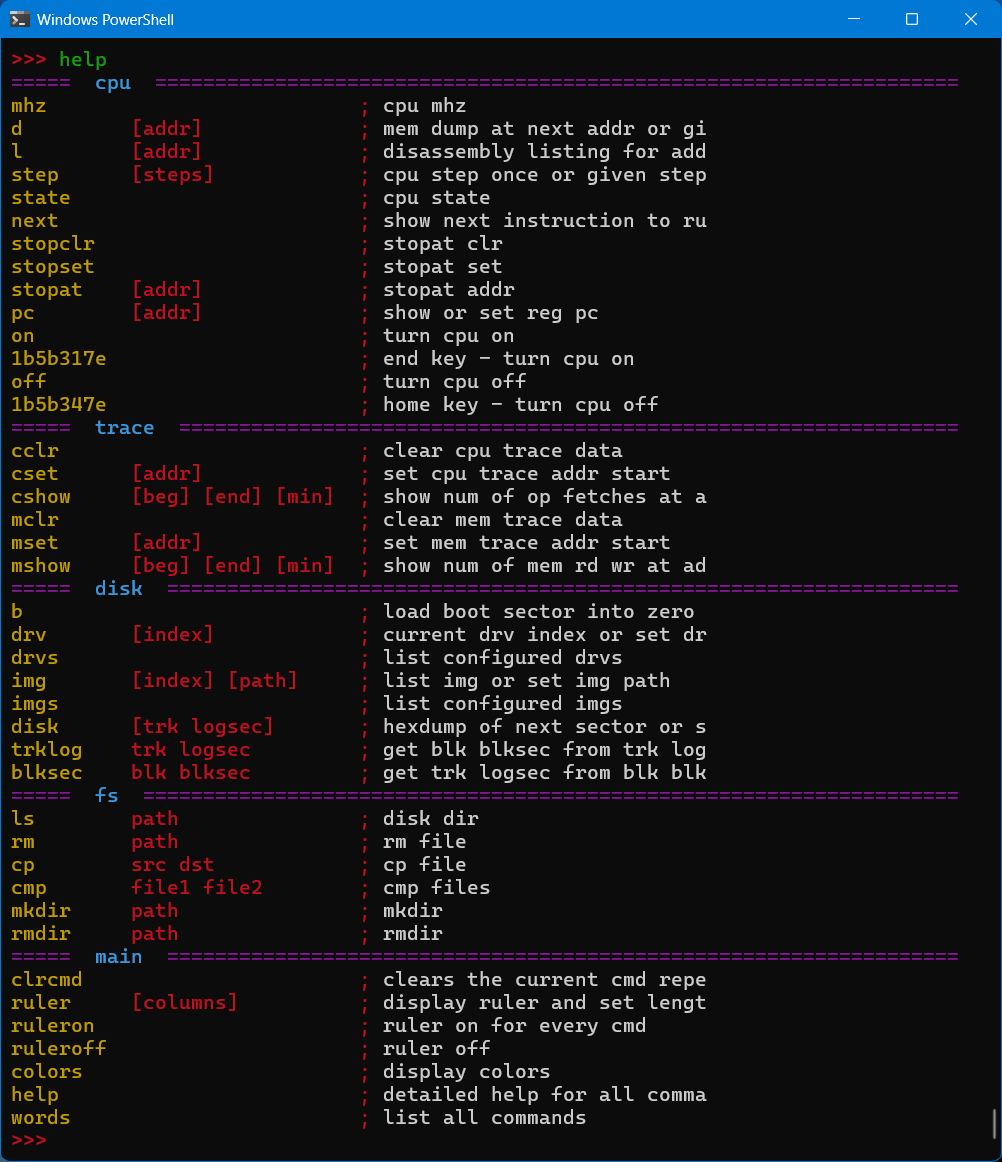
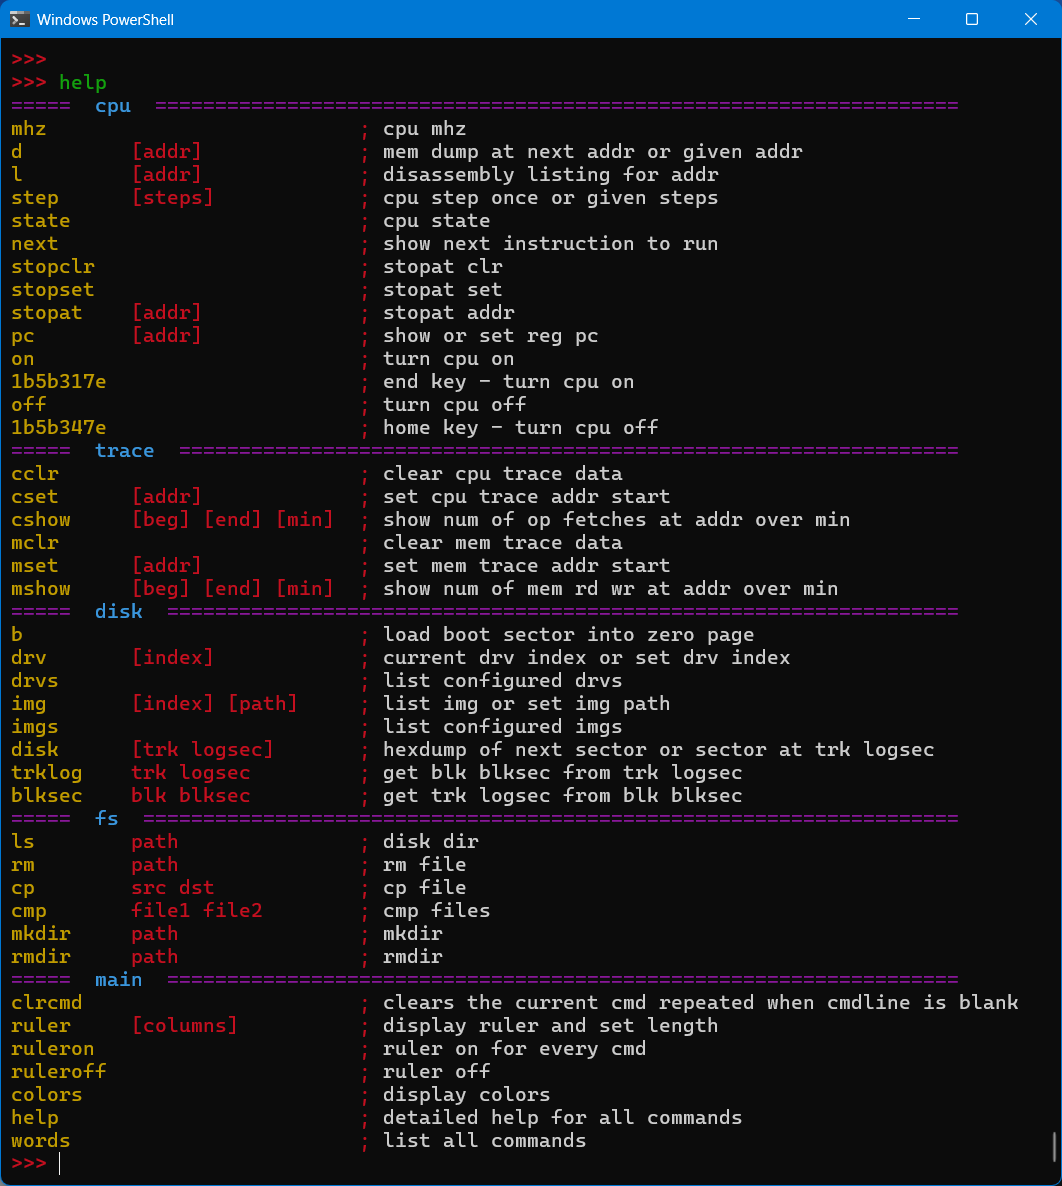
help img update

diff --git a/src/emu-esp32/cmd.main.h b/src/emu-esp32/cmd.main.h
@@ -72,7 +72,7 @@ cmd_entry_t cmds_main[] = {
 };
 
 static void help_one( char *grp, cmd_entry_t *cmds ) {
-  char buffer[80];
+  char buffer[150];
   memset( buffer, '=', 5 );
   buffer[5] = '\0';
   print( colors[color].help_bar );